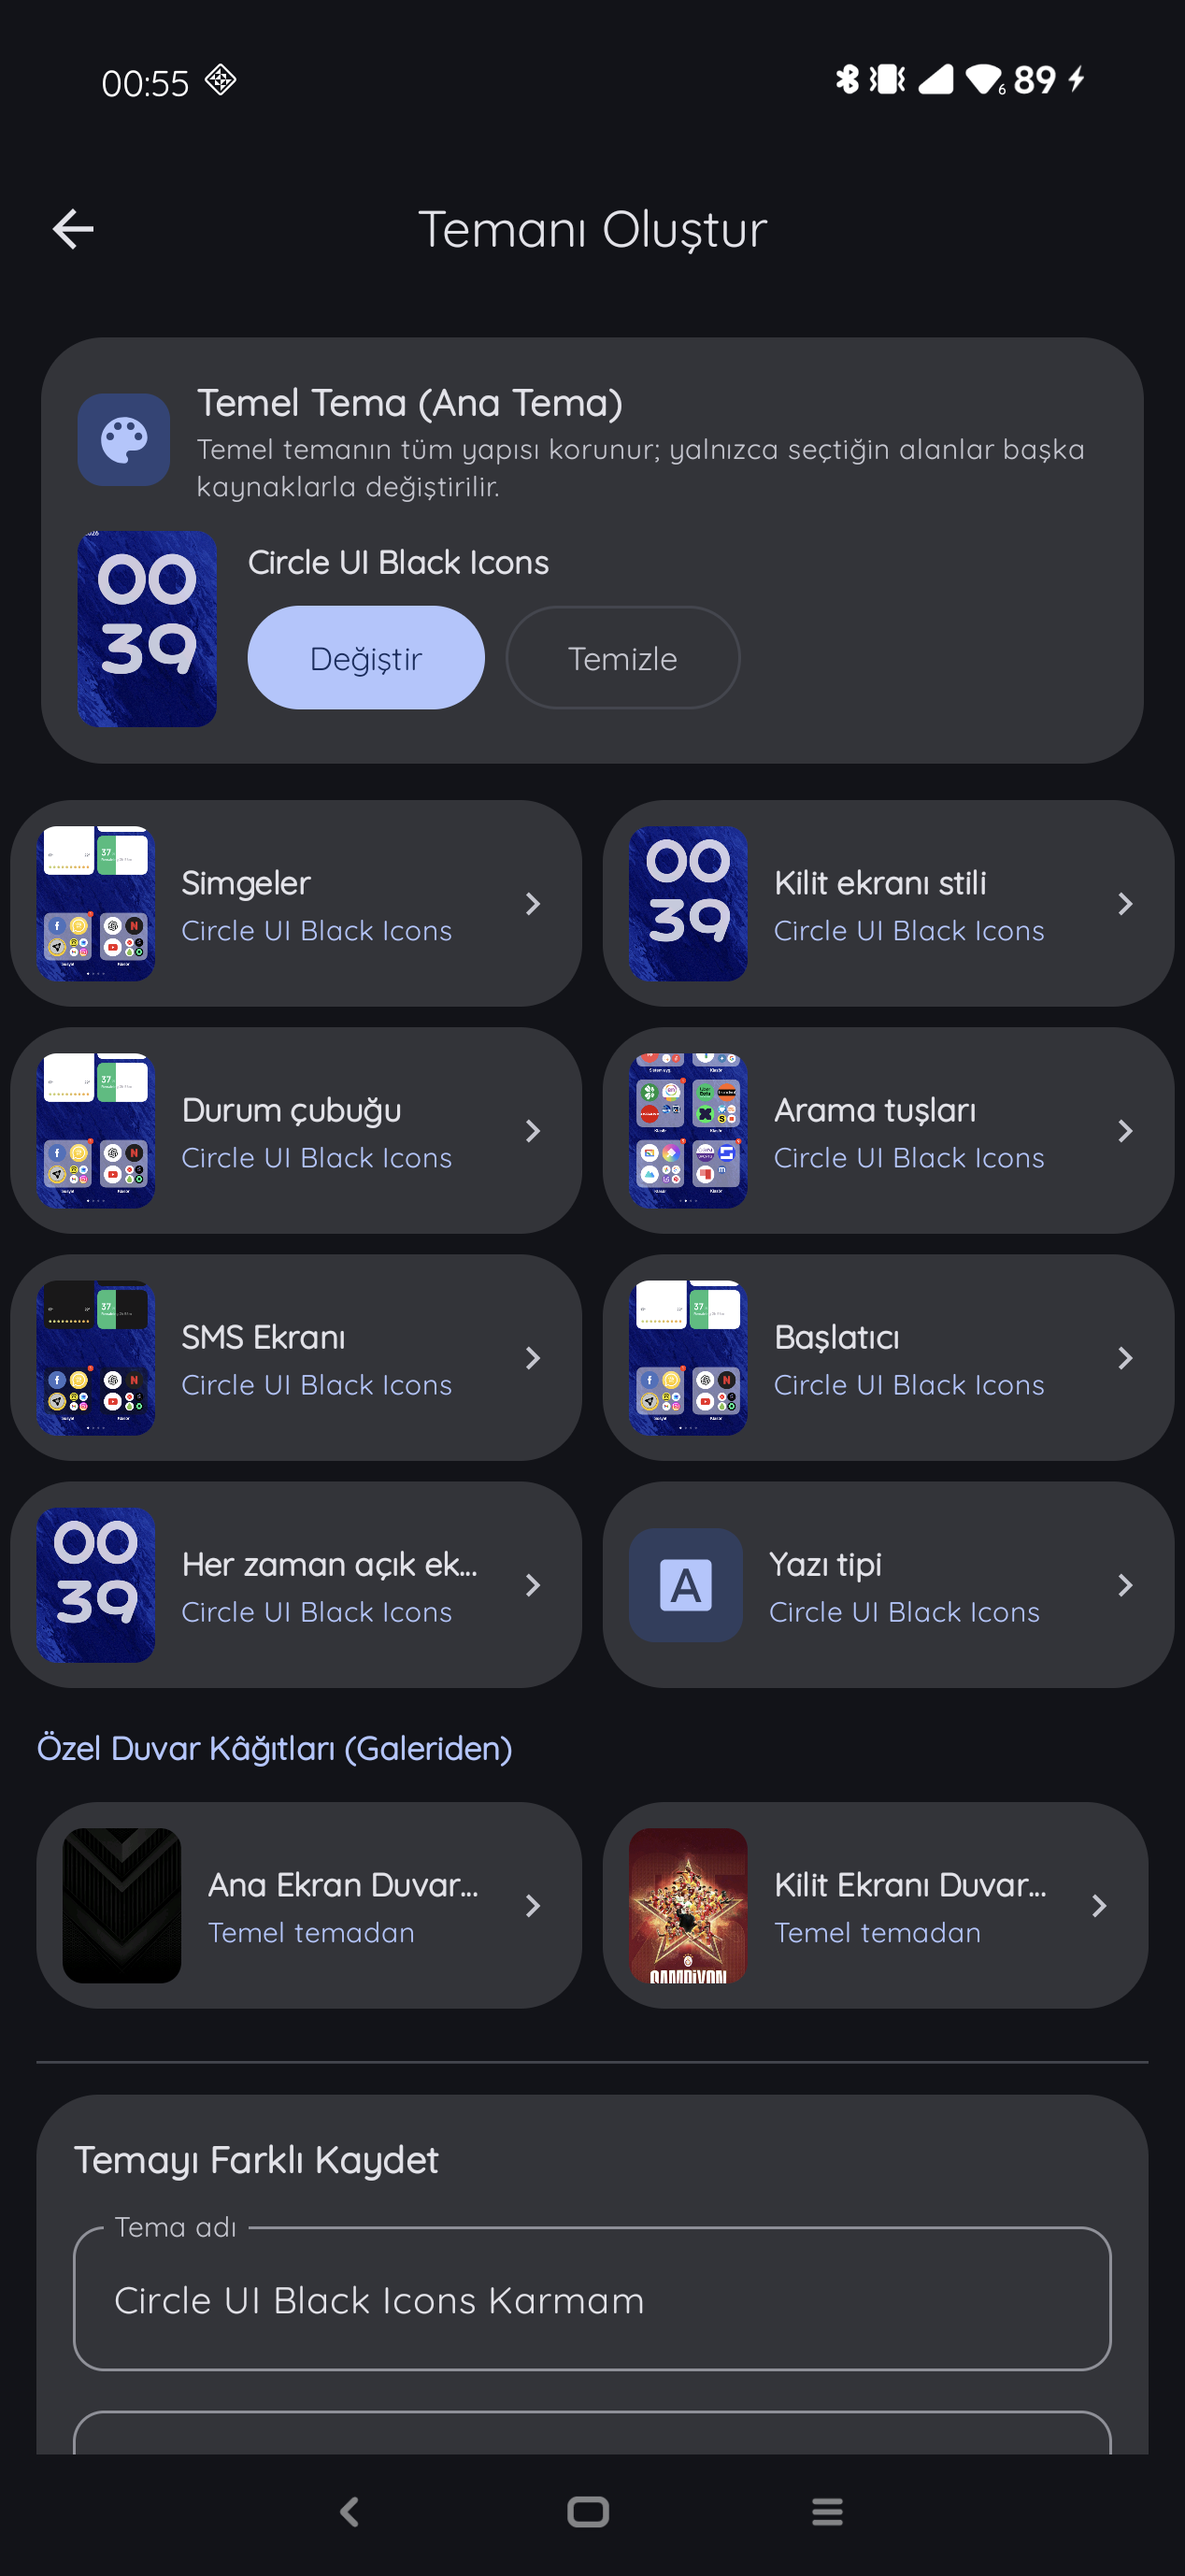
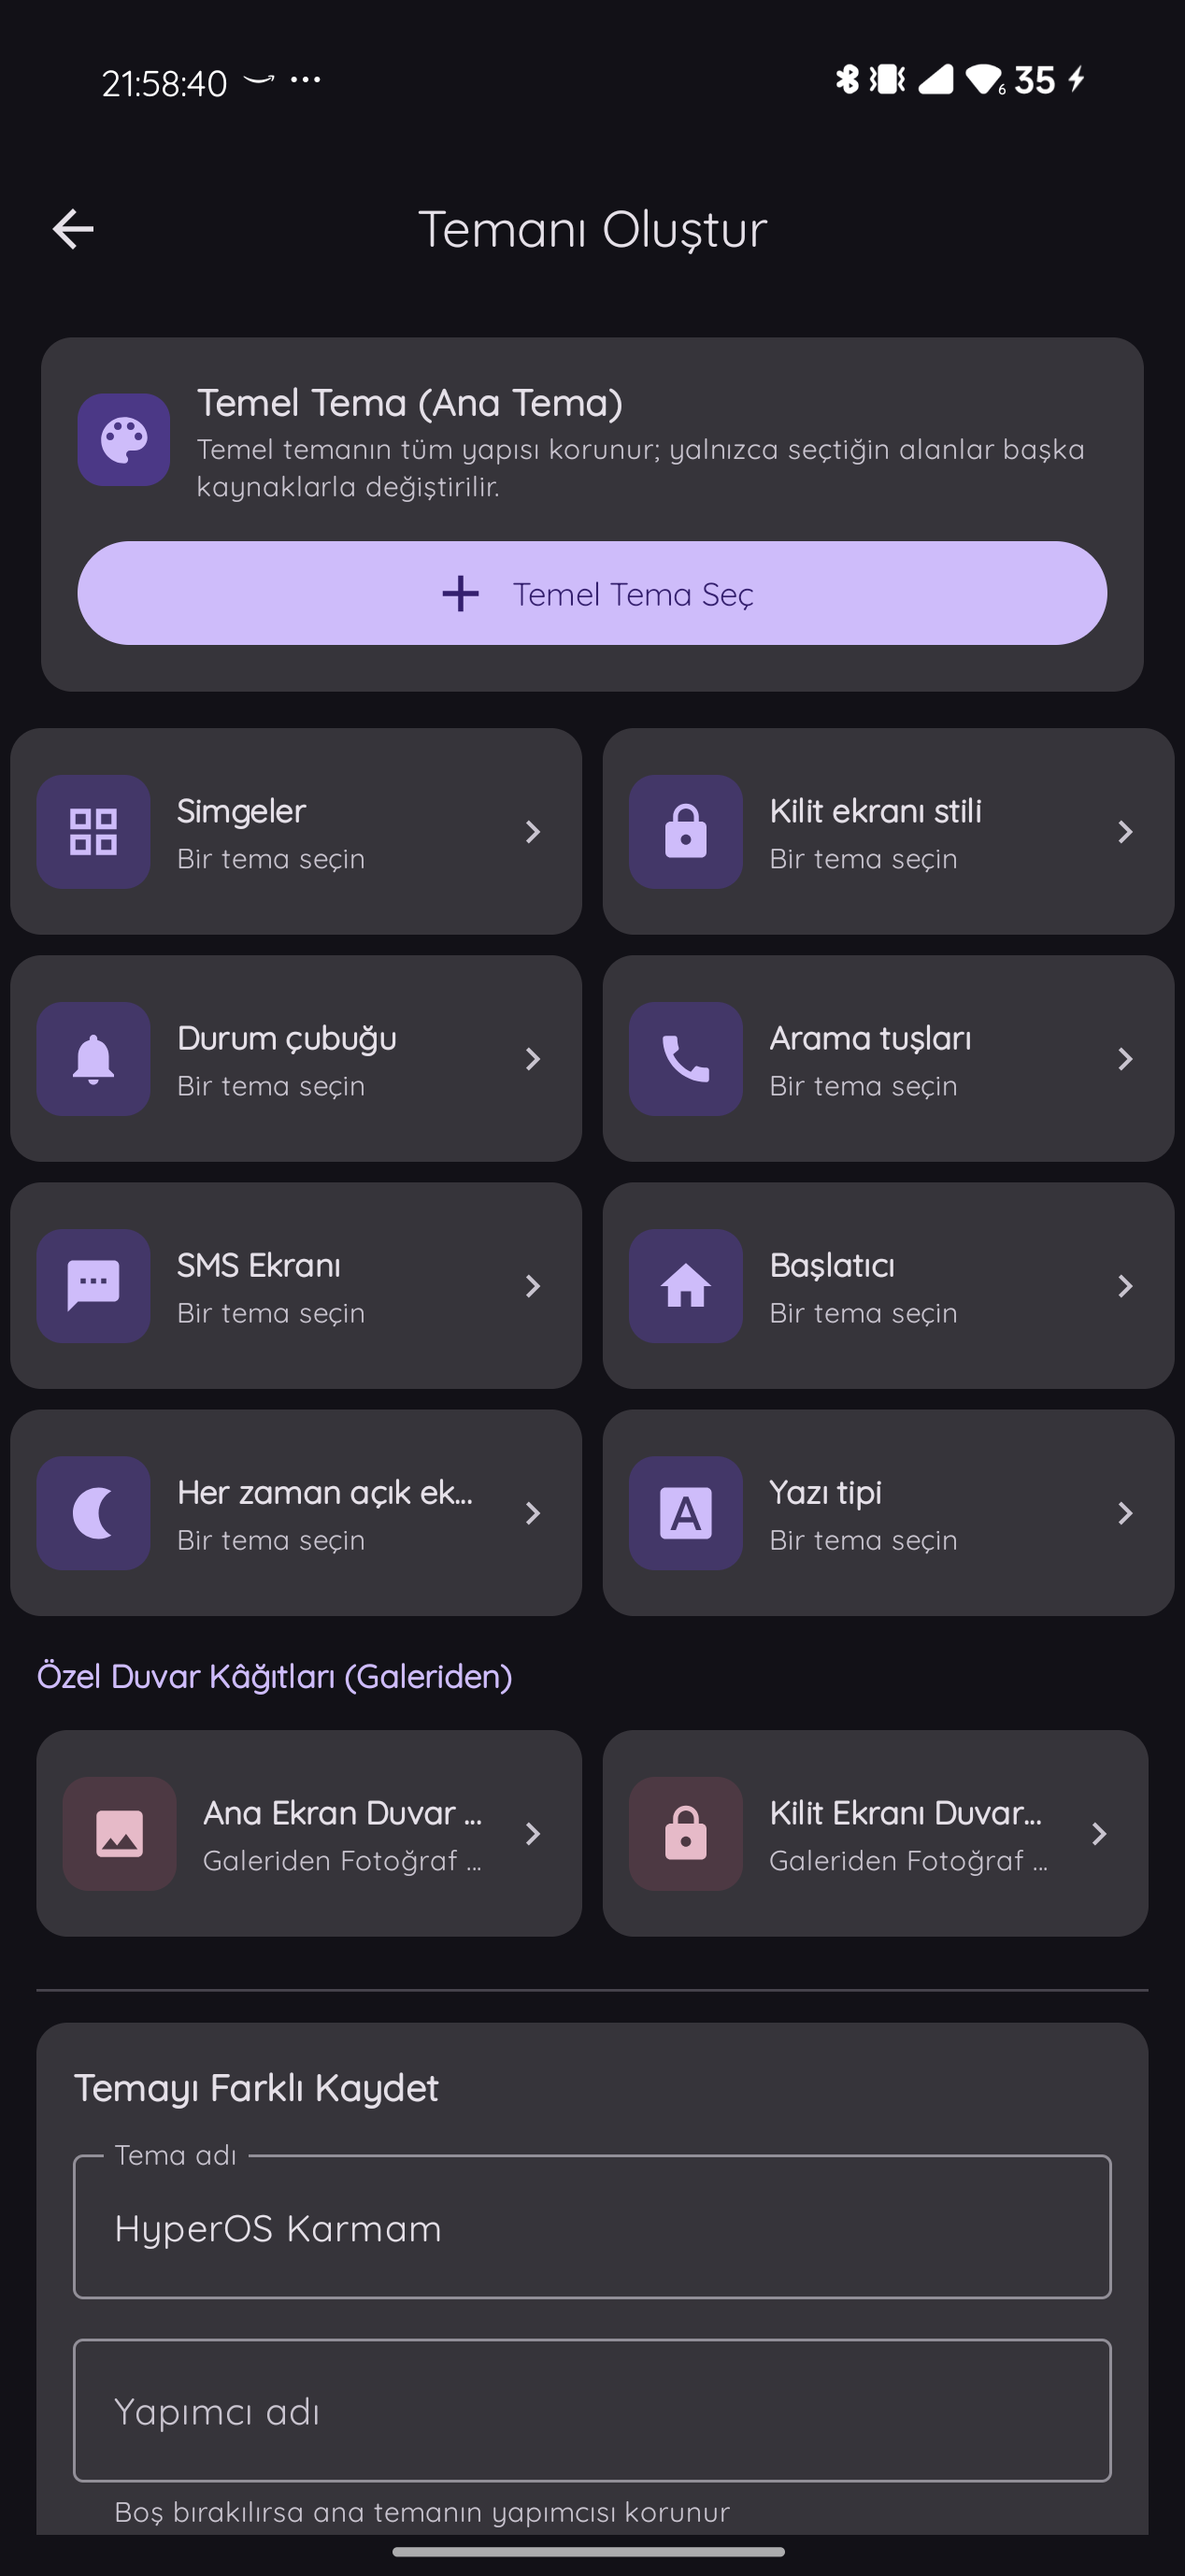
fix: separate font packages and refresh v3 screenshots

diff --git a/app/src/main/kotlin/dev/glorioustr/mtzstudio/DeviceThemeImporter.kt b/app/src/main/kotlin/dev/glorioustr/mtzstudio/DeviceThemeImporter.kt
@@ -11,6 +11,7 @@ import dev.glorioustr.mtzstudio.composer.CompositionMetadata
 import dev.glorioustr.mtzstudio.composer.FontExportRequest
 import dev.glorioustr.mtzstudio.composer.MtzComposer
 import dev.glorioustr.mtzstudio.core.MtzParser
+import dev.glorioustr.mtzstudio.core.ThemeVisualPolicy
 import dev.glorioustr.mtzstudio.library.LibraryTheme
 import dev.glorioustr.mtzstudio.library.ThemeLibrary
 import dev.glorioustr.mtzstudio.tester.PrivilegedCommandRunner
@@ -160,9 +161,12 @@ internal class DeviceThemeImporter(
             val existing = findExisting(record, knownThemes)
             if (existing != null) {
                 // A Theme Manager backup may contain a lockstyle-only resource. It still belongs
-                // in the Themes gallery after a BAK restore; do not hide it behind the usual
-                // multi-component gallery heuristic.
-                val visibleExisting = library.setThemeGalleryVisibility(existing, true)
+                // in the Themes gallery after a BAK restore. Font-only resources are the exception:
+                // they belong exclusively in Fonts and must not appear as complete themes.
+                val visibleExisting = library.setThemeGalleryVisibility(
+                    existing,
+                    !ThemeVisualPolicy.isFontOnly(existing.archive),
+                )
                 val existingIndex = knownThemes.indexOfFirst { it.id == existing.id }
                 if (existingIndex >= 0) knownThemes[existingIndex] = visibleExisting
                 rememberOrigin(record, visibleExisting)
@@ -182,7 +186,11 @@ internal class DeviceThemeImporter(
                 val verified = parser.parse(output)
                 if (verified.components.isEmpty()) error("No recognizable MTZ component was produced")
                 val imported = Files.newInputStream(output).use {
-                    library.importTheme(it, record.title, includeInThemeGallery = true)
+                    library.importTheme(
+                        it,
+                        record.title,
+                        includeInThemeGallery = !ThemeVisualPolicy.isFontOnly(verified),
+                    )
                 }
                 knownThemes += imported
                 rememberOrigin(record, imported)

diff --git a/app/src/main/kotlin/dev/glorioustr/mtzstudio/StudioMenu.kt b/app/src/main/kotlin/dev/glorioustr/mtzstudio/StudioMenu.kt
@@ -113,6 +113,7 @@ import androidx.compose.ui.window.Dialog
 import androidx.compose.ui.window.DialogProperties
 import dev.glorioustr.mtzstudio.composer.CompositionResult
 import dev.glorioustr.mtzstudio.core.ComponentCategory
+import dev.glorioustr.mtzstudio.core.ThemeVisualPolicy
 import dev.glorioustr.mtzstudio.library.LibraryTheme
 import dev.glorioustr.mtzstudio.tester.RootThemeManagerUpdater
 import dev.glorioustr.mtzstudio.tester.ThemeManagerInspector
@@ -547,11 +548,16 @@ internal fun CategoryScreen(
     modifier: Modifier = Modifier,
 ) {
     val category = requireNotNull(destination.category)
-    val sources = themes.flatMap { theme ->
+    val categoryThemes = if (category == ComponentCategory.FONT) {
+        themes.filter { ThemeVisualPolicy.isFontOnly(it.archive) }
+    } else {
+        themes
+    }
+    val sources = categoryThemes.flatMap { theme ->
         theme.archive.components.filter { it.category == category }.map { theme to it }
     }
-    val previewOnlyThemes = themes.filter {
-        dev.glorioustr.mtzstudio.core.ThemeVisualPolicy.isPreviewOnly(it.archive.components, it.archive.entries, category)
+    val previewOnlyThemes = categoryThemes.filter {
+        ThemeVisualPolicy.isPreviewOnly(it.archive.components, it.archive.entries, category)
     }
     LazyVerticalGrid(
         columns = GridCells.Fixed(3),
@@ -2965,6 +2971,9 @@ private data class OverlayMenuItem(
 )
 
 internal fun LibraryTheme.isThemeGalleryItem(): Boolean {
+    // Repair the classification of font packages imported by older BAK builds even when their
+    // persisted gallery flag was set. They remain available from the Fonts destination.
+    if (ThemeVisualPolicy.isFontOnly(archive)) return false
     if (includeInThemeGallery) return true
     val appearanceCategories = archive.components.asSequence()
         .map { it.category }

diff --git a/mtz-core/src/test/kotlin/dev/glorioustr/mtzstudio/core/ThemeVisualPolicyTest.kt b/mtz-core/src/test/kotlin/dev/glorioustr/mtzstudio/core/ThemeVisualPolicyTest.kt
@@ -12,6 +12,22 @@ class ThemeVisualPolicyTest {
     private fun entry(path: String, size: Long = 32, directory: Boolean = false) =
         MtzEntry(path, size, size, 0, directory, false)
 
+    private fun archive(vararg categories: ComponentCategory) = MtzArchive(
+        source = java.nio.file.Path.of("fixture.mtz"),
+        sha256 = "fixture",
+        metadata = null,
+        entries = emptyList(),
+        components = categories.map { ThemeComponent(it, it.name, listOf(it.name), 1) },
+        rightsEntries = emptyList(),
+        expandedBytes = categories.size.toLong(),
+    )
+
+    @Test fun `font only package is separated from the complete theme gallery`() {
+        assertTrue(ThemeVisualPolicy.isFontOnly(archive(ComponentCategory.FONT)))
+        assertFalse(ThemeVisualPolicy.isFontOnly(archive(ComponentCategory.FONT, ComponentCategory.ICONS)))
+        assertFalse(ThemeVisualPolicy.isFontOnly(archive()))
+    }
+
     @Test fun `localized statusbar images outrank all launcher and default covers`() {
         val entries = listOf(entry("preview/preview_launcher_0.jpg"), entry("preview/en_US_launcher_0.jpg"),
             entry("preview/en_US_statusbar_1.jpg"), entry("preview/en_US_statusbar_0.jpg"),

diff --git a/mtz-core/src/main/kotlin/dev/glorioustr/mtzstudio/core/ThemeVisualPolicy.kt b/mtz-core/src/main/kotlin/dev/glorioustr/mtzstudio/core/ThemeVisualPolicy.kt
@@ -2,6 +2,9 @@ package dev.glorioustr.mtzstudio.core
 
 /** Category availability is independent of screenshots; never invent missing components. */
 object ThemeVisualPolicy {
+    fun isFontOnly(archive: MtzArchive): Boolean =
+        archive.components.isNotEmpty() && archive.components.all { it.category == ComponentCategory.FONT }
+
     fun defaultSourceKey(category: ComponentCategory): String = "mtzstudiodefault_${category.name.lowercase()}"
 
     fun defaultSourceName(archive: MtzArchive, category: ComponentCategory): String? =

diff --git a/README.md b/README.md
@@ -48,7 +48,7 @@ Root remains necessary for reading Xiaomi Themes' private catalog and active fon
 
 ## v3.0.0 highlights
 
-- **BAK Import:** rooted devices can select a Xiaomi Themes `.bak` archive and let Studio validate, restore and index its themes. The restored items appear in Studio's Themes library without forcing a jump to Xiaomi Themes.
+- **BAK Import:** rooted devices can select a Xiaomi Themes `.bak` archive and let Studio validate, restore and index its contents. Complete themes appear in Themes, while font-only packages are classified under Fonts instead of cluttering the theme gallery.
 - **Three adaptive access modes:** Studio selects root, Shizuku/Shevery or rootless behavior from verified runtime access. The first screen no longer briefly reports rootless mode while privilege discovery is still running.
 - **Theme Language Tool:** translate the selected theme in place while retaining its original source for clean retranslation. Nested MTZ components, XML/JSON display text and safe MAML text expressions are covered.
 - **Natural Turkish theme text:** charging, weather, date and customization terminology use a domain glossary and post-processing instead of raw word-for-word output. Code, predicates and MAML control expressions are preserved.
@@ -83,14 +83,14 @@ Modern host surfaces were inspected in `10.8.7.6`, `10.9.2.0`, `10.9.4.0`, `10.9
 ## Interface
 
 <p align="center">
-  <img src="docs/screenshots/home.png" alt="HyperOS MTZ Studio home screen" width="30%">
+  <img src="docs/screenshots/home.png" alt="HyperOS MTZ Studio v3.0.0 home screen with MTZ and BAK Import" width="30%">
   &nbsp;
-  <img src="docs/screenshots/themes.png" alt="Visual theme library" width="30%">
+  <img src="docs/screenshots/themes.png" alt="HyperOS MTZ Studio v3.0.0 visual theme library" width="30%">
   &nbsp;
-  <img src="docs/screenshots/composer.png" alt="MTZ theme composer" width="30%">
+  <img src="docs/screenshots/composer.png" alt="HyperOS MTZ Studio v3.0.0 theme composer" width="30%">
 </p>
 
-<p align="center"><sub>The Themes screenshot shows the Global provider. On modern Theme Manager builds, users can import individual themes first or explicitly open the guarded full-library flow.</sub></p>
+<p align="center"><sub>Current v3.0.0 interface captured on a real device. Font-only BAK/MTZ resources are shown under Fonts; complete themes stay in the Themes gallery.</sub></p>
 
 - Material You and Liquid Glass presentation styles.
 - System, Light, Dark and AMOLED color modes.
@@ -105,7 +105,7 @@ Modern host surfaces were inspected in `10.8.7.6`, `10.9.2.0`, `10.9.4.0`, `10.9
 - Inspect MTZ structure and metadata before adding a file.
 - Keep imported and generated themes in the app-private library.
 - Browse themes through real home-screen previews with a full-width Apply action plus compact Translate and Delete controls.
-- Restore supported Xiaomi Themes `.bak` archives on rooted devices through the dedicated **BAK Import** card.
+- Restore supported Xiaomi Themes `.bak` archives on rooted devices through the dedicated **BAK Import** card. Font-only results are automatically routed to Fonts.
 - Translate supported visible theme text in place with the **Theme Language Tool**; the original archive is retained internally so changing language does not compound an earlier machine translation.
 - Export generated MTZ files to `Downloads/MTZ Studio` and create a restorable library backup.
 - On compatible rooted modern builds, import selected Xiaomi Theme Manager themes or explicitly request a guarded full-library reconstruction.

diff --git a/docs/release-notes-v3.0.0.md b/docs/release-notes-v3.0.0.md
@@ -4,7 +4,7 @@ Version 3.0.0 brings the BAK restore workflow, adaptive root/Shizuku/rootless ac
 
 ## What's new
 
-- **BAK Import for rooted devices:** select a Xiaomi Themes `.bak` archive and let Studio validate, restore and index its contents. Restored themes are added to the Studio library without an unnecessary redirect to Xiaomi Themes.
+- **BAK Import for rooted devices:** select a Xiaomi Themes `.bak` archive and let Studio validate, restore and index its contents. Complete themes are added to Themes, while font-only resources are routed exclusively to Fonts without an unnecessary redirect to Xiaomi Themes.
 - **Adaptive privilege detection:** the opening screen waits for capability discovery and then selects verified root, Shizuku/Shevery or rootless behavior. Shell access is not mistaken for UID 0.
 - **Theme Language Tool:** translates the selected theme in place and keeps an internal original for clean retranslation to another language.
 - **Deeper theme coverage:** nested MTZ packages, XML and JSON display resources, safe MAML text expressions, date patterns, weather text and customization labels are handled.
